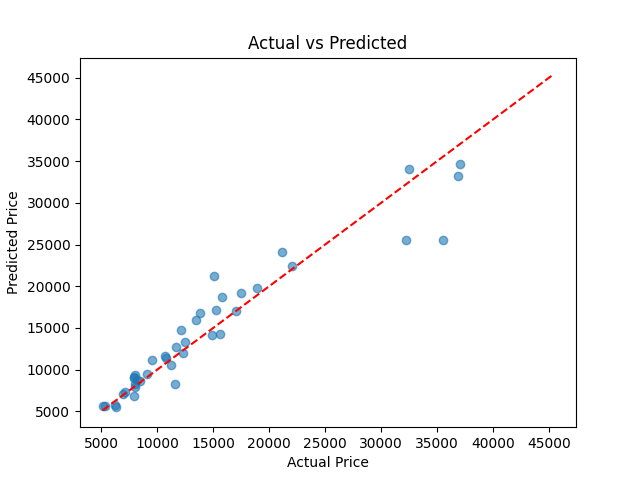
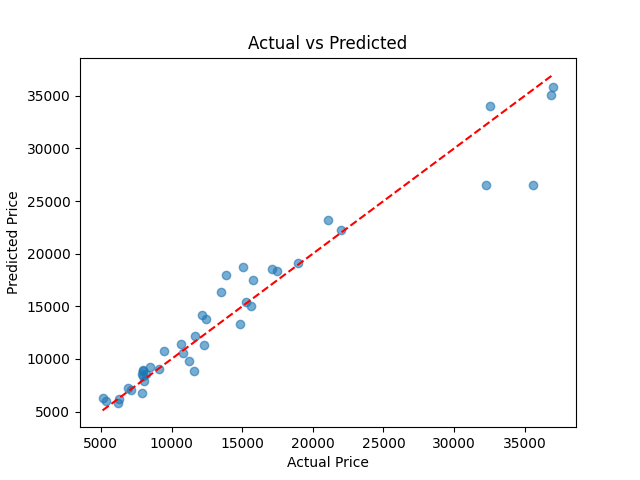
feat: Done basic predict

diff --git a/src/predict.py b/src/predict.py
@@ -1,0 +1,60 @@
+import pandas as pd
+import numpy as np
+import joblib
+import json
+
+model = joblib.load("models/model.pkl")
+scaler = joblib.load("models/scaler.pkl")
+feature_cols = json.load(open("models/feature_columns.json"))
+
+sample = pd.DataFrame([{
+    # numeric
+    'symboling':          1,
+    'height':             55.0,
+    'curb-weight':        2500,
+    'engine-size':        130,
+    'bore':               3.5,
+    'stroke':             3.0,
+    'horsepower':         110.0,
+    'peak-rpm':           5500.0,
+    # engineered
+    'horsepower_per_kg':  110.0 / 2500,
+    'engine_per_kg':      130 / 2500,
+    'mpg_avg':            (25 + 30) / 2,
+    'footprint':          170 * 65,
+    # make — set the one that applies to 1, rest are 0
+    'make_audi':          0, 'make_bmw':           0, 'make_chevrolet':     0,
+    'make_dodge':         0, 'make_honda':         1, 'make_jaguar':        0,
+    'make_mazda':         0, 'make_mercedes-benz': 0, 'make_mitsubishi':    0,
+    'make_nissan':        0, 'make_peugot':        0, 'make_plymouth':      0,
+    'make_porsche':       0, 'make_saab':          0, 'make_subaru':        0,
+    'make_toyota':        0, 'make_volkswagen':    0, 'make_volvo':         0,
+    # other categoricals
+    'aspiration_turbo':   0,
+    'body-style_hardtop': 0, 'body-style_hatchback': 0, 'body-style_sedan': 1,
+    'drive-wheels_rwd':   0,
+    'engine-location_rear': 0,
+    'engine-type_ohc':    1, 'engine-type_ohcv':   0,
+    'num-of-cylinders_five': 0, 'num-of-cylinders_four': 1,
+    'num-of-cylinders_six':  0, 'num-of-cylinders_three': 0,
+    'num-of-cylinders_twelve': 0,
+    'fuel-system_2bbl':   0, 'fuel-system_idi':    0,
+    'fuel-system_mpfi':   0, 'fuel-system_spdi':   0,
+}])
+
+# apply log transform to the same skewed numeric cols as in features.py
+log_cols = ['curb-weight', 'engine-size', 'horsepower', 'horsepower_per_kg',
+            'engine_per_kg', 'footprint', 'mpg_avg']
+for col in log_cols:
+    if col in sample.columns:
+        sample[col] = np.log1p(sample[col])
+
+# reorder columns to match training
+sample = sample[feature_cols]
+
+# scale and predict
+sample_scaled = scaler.transform(sample)
+log_prediction = model.predict(sample_scaled)
+price = np.expm1(log_prediction)
+
+print(f"Predicted price: ${price[0]:,.2f}")

diff --git a/src/evaluate.py b/src/evaluate.py
@@ -26,15 +26,15 @@ print(f"MAE:  {mean_absolute_error(y_test_actual, y_pred):.2f}")
 print(f"RMSE: {root_mean_squared_error(y_test_actual, y_pred):.2f}")
 
 # actual vs predicted plot
-plt.scatter(y_test, y_pred, alpha=0.6)
-plt.plot([y.min(), y.max()], [y.min(), y.max()], 'r--')  # perfect prediction line
+plt.scatter(y_test_actual, y_pred, alpha=0.6)
+plt.plot([y_test_actual.min(), y_test_actual.max()], [y_test_actual.min(), y_test_actual.max()], 'r--')  # perfect prediction line
 plt.xlabel("Actual Price")
 plt.ylabel("Predicted Price")
 plt.title("Actual vs Predicted")
 plt.savefig("reports/actual_vs_predicted.png")
 
 # residuals plot
-residuals = y_test - y_pred
+residuals = y_test_actual - y_pred
 plt.figure()
 plt.scatter(y_pred, residuals, alpha=0.6)
 plt.axhline(0, color='r', linestyle='--')

diff --git a/src/train.py b/src/train.py
@@ -3,6 +3,7 @@ from sklearn.linear_model import LinearRegression
 from sklearn.preprocessing import StandardScaler
 import pandas as pd
 import joblib
+import json
 
 auto = pd.read_csv("data/processed/auto_features.csv")
 
@@ -38,3 +39,6 @@ print('Intercept: {:.3f}'.format(model.intercept_))
 
 joblib.dump(model, "models/model.pkl")
 joblib.dump(scaler, "models/scaler.pkl")
+
+# save feature column order
+json.dump(list(X.columns), open("models/feature_columns.json", "w"))